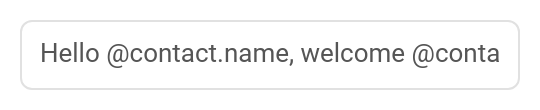
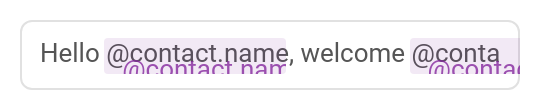
Fix expression highlighting positioning with simplified approach

Changed region(s): [[0.2074, 0.5455, 0.5333, 0.6818], [0.7704, 0.5455, 0.9778, 0.6818]]

diff --git a/src/form/Completion.ts b/src/form/Completion.ts
@@ -198,6 +198,9 @@ export class Completion extends FormElement {
         this.updateHighlights();
       });
     }
+
+    // Initial highlight update
+    setTimeout(() => this.updateHighlights(), 0);
   }
 
   private handleKeyUp(evt: KeyboardEvent) {
@@ -348,87 +351,56 @@ export class Completion extends FormElement {
     const inputElement = this.textInputElement.inputElement;
     const highlightSpan = document.createElement('span');
     highlightSpan.className = 'expression-highlight';
-
-    // Calculate the position of the expression text
-    const startPos = this.getTextPosition(inputElement, expression.start);
-    const endPos = this.getTextPosition(inputElement, expression.end);
-
-    if (startPos && endPos) {
-      // Position relative to the input element's content area
-      const computedStyle = getComputedStyle(inputElement);
+    
+    // Set the text content to make it visible for debugging
+    highlightSpan.textContent = this.value.substring(expression.start, expression.end);
+    
+    // For now, use a simple positioning approach that positions highlights
+    // as inline elements that flow with the text
+    const computedStyle = getComputedStyle(inputElement);
+    
+    // Copy font properties to ensure text matches
+    highlightSpan.style.fontFamily = computedStyle.fontFamily;
+    highlightSpan.style.fontSize = computedStyle.fontSize;
+    highlightSpan.style.fontWeight = computedStyle.fontWeight;
+    highlightSpan.style.lineHeight = computedStyle.lineHeight;
+    highlightSpan.style.letterSpacing = computedStyle.letterSpacing;
+    
+    // Position the highlight relatively within the overlay
+    highlightSpan.style.position = 'absolute';
+    highlightSpan.style.left = '0px';
+    highlightSpan.style.top = '0px';
+    highlightSpan.style.padding = computedStyle.padding;
+    highlightSpan.style.margin = '0';
+    highlightSpan.style.whiteSpace = inputElement.tagName === 'TEXTAREA' ? 'pre-wrap' : 'nowrap';
+    highlightSpan.style.overflow = 'hidden';
+    highlightSpan.style.pointerEvents = 'none';
+    
+    // Calculate position using a simplified approach
+    const textBefore = this.value.substring(0, expression.start);
+    const canvas = document.createElement('canvas');
+    const context = canvas.getContext('2d');
+    
+    if (context) {
+      // Set font on canvas context
+      context.font = `${computedStyle.fontSize} ${computedStyle.fontFamily}`;
+      
+      // Measure text width
+      const textWidth = context.measureText(textBefore).width;
+      const expressionWidth = context.measureText(highlightSpan.textContent).width;
+      
+      // Get input padding
       const paddingLeft = parseInt(computedStyle.paddingLeft) || 0;
       const paddingTop = parseInt(computedStyle.paddingTop) || 0;
-
-      highlightSpan.style.left = `${paddingLeft + startPos.left}px`;
-      highlightSpan.style.top = `${paddingTop + startPos.top}px`;
-      highlightSpan.style.width = `${endPos.left - startPos.left}px`;
-      highlightSpan.style.height = `${startPos.height}px`;
-
-      this.highlightOverlay.appendChild(highlightSpan);
+      
+      // Position the highlight
+      highlightSpan.style.left = `${paddingLeft + textWidth}px`;
+      highlightSpan.style.top = `${paddingTop}px`;
+      highlightSpan.style.width = `${expressionWidth}px`;
+      highlightSpan.style.height = computedStyle.fontSize;
     }
-  }
-
-  private getTextPosition(
-    element: HTMLInputElement | HTMLTextAreaElement,
-    position: number
-  ) {
-    // Create a temporary element to measure text
-    const div = document.createElement('div');
-    const computedStyle = getComputedStyle(element);
-
-    // Copy relevant styles from the input element
-    [
-      'font-family',
-      'font-size',
-      'font-weight',
-      'line-height',
-      'letter-spacing',
-      'text-transform',
-      'word-spacing',
-      'text-indent',
-      'white-space',
-      'word-wrap',
-      'box-sizing'
-    ].forEach((prop) => {
-      div.style[prop] = computedStyle[prop];
-    });
-
-    div.style.position = 'absolute';
-    div.style.visibility = 'hidden';
-    div.style.whiteSpace =
-      element.tagName === 'TEXTAREA' ? 'pre-wrap' : 'nowrap';
-    div.style.width =
-      element.tagName === 'INPUT' ? 'auto' : `${element.clientWidth}px`;
-    div.style.padding = '0';
-    div.style.margin = '0';
-    div.style.border = 'none';
-
-    // Set text up to the position
-    const textBeforePosition = element.value.substring(0, position);
-    div.textContent = textBeforePosition;
-
-    // Add a span for the character at position to measure
-    const span = document.createElement('span');
-    span.textContent = element.value.charAt(position) || ' ';
-    div.appendChild(span);
-
-    // Add to DOM temporarily to measure
-    document.body.appendChild(div);
-
-    const spanRect = span.getBoundingClientRect();
-    const elementRect = element.getBoundingClientRect();
-
-    // Calculate position relative to the input element's content area
-    const result = {
-      left: spanRect.left - elementRect.left - element.scrollLeft,
-      top: spanRect.top - elementRect.top - element.scrollTop,
-      height: spanRect.height
-    };
-
-    // Clean up
-    document.body.removeChild(div);
-
-    return result;
+    
+    this.highlightOverlay.appendChild(highlightSpan);
   }
 
   public render(): TemplateResult {

diff --git a/test/temba-completion.test.ts b/test/temba-completion.test.ts
@@ -24,7 +24,7 @@ describe('temba-completion', () => {
     assert.instanceOf(completion, Completion);
 
     // Wait for the component to initialize and update highlights
-    await new Promise((resolve) => setTimeout(resolve, 100));
+    await new Promise((resolve) => setTimeout(resolve, 200));
 
     // Check that the highlight overlay exists
     const highlightOverlay = completion.shadowRoot.querySelector(
